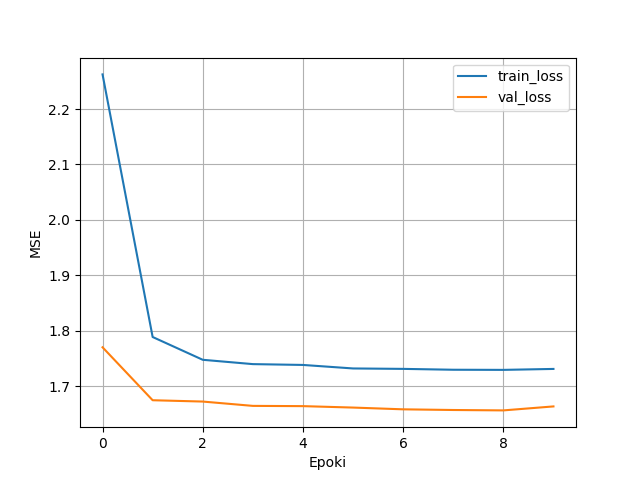
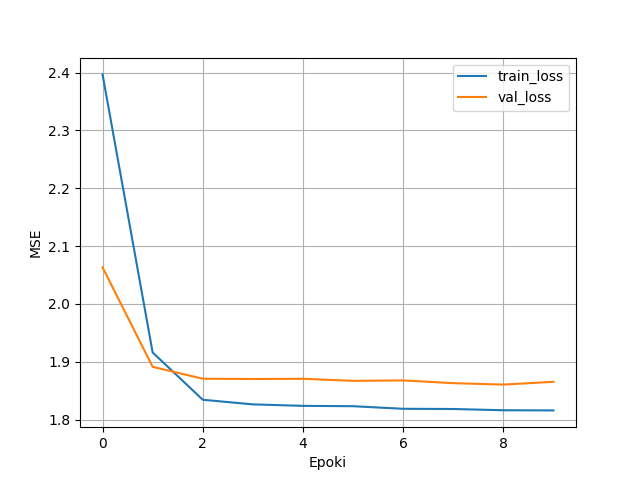
16.05.2022

diff --git a/zad2/main.py b/zad2/main.py
@@ -45,7 +45,7 @@ def dane_dla_sieci (u, y, typ_sieci="NNARX"):
     # X=[ y[1:-2], y[0:-3], u[1:-2], u[0:-3] ] #macierz z wartosciami wejscia␣,→sieci NNARX
     # X=[ u[1:-2], u[0:-3]]   #NNFIR
     if typ_sieci == "NNARX":
-        X=[ y[1:-2], y[0:-3], u[1:-2], u[0:-3] ] #macierz z wartosciami wejscia␣,→sieci NNARX
+        X=[ y[2:-1], y[1:-2], y[0:-3], u[2:-1], u[1:-2], u[0:-3] ] #macierz z wartosciami wejscia␣,→sieci NNARX
     elif typ_sieci == "NNFIR":   
         X=[ u[1:-2], u[0:-3]]   #NNFIR
 
@@ -60,7 +60,7 @@ def build_network(X, T,typ_sieci="NNARX"):
     # Utworzenie sieci
     model = Sequential()
     if typ_sieci == "NNARX":
-        input_shape = (4,) #liczba wejsc sieci - uwaga na przecinek - w pythonie 4␣,→rozni sie od (4,) !!!
+        input_shape = (6,) #liczba wejsc sieci - uwaga na przecinek - w pythonie 4␣,→rozni sie od (4,) !!!
     elif typ_sieci == "NNFIR":   
         input_shape = (2,) #liczba wejsc sieci - uwaga na przecinek - w pythonie 4␣,→rozni sie od (4,) !!!
 
@@ -114,7 +114,17 @@ def print_errors(errors, typ_sieci, save=True, run=0):
         plt.close()
     else:
         plt.show()
-    
+
+def print_hist(errors, typ_sieci, save=True, run=0):
+    plt.hist(errors,50,)
+    plt.title('Histogram błędów')
+    if save == True:
+        filename = str(run) + os.sep + typ_sieci + os.sep + os.sep + "hist" 
+        plt.savefig(filename + '_plot.png')
+        plt.close()
+    else:
+        plt.show()
+
 def create_log(typ_sieci ,Y_hat, errors, T, X, run):
     #  logs
     Y_hat[:,0]
@@ -173,6 +183,7 @@ def badania(N, plots, logs, typ_sieci, run, save = True):
         MSE_epoki(history=history, typ_sieci=typ_sieci, save=save, run=run)
         model_obiekt(Y_hat=Y_hat, T=T, typ_sieci=typ_sieci, save=save , run=run)
         print_errors(errors=errors, typ_sieci=typ_sieci, save=save , run=run)
+        print_hist(errors=errors, typ_sieci=typ_sieci, save=save , run=run)
 
     if logs == True:
         create_log(typ_sieci=typ_sieci, Y_hat=Y_hat, errors=errors, T=T, X=X, run=run)   
